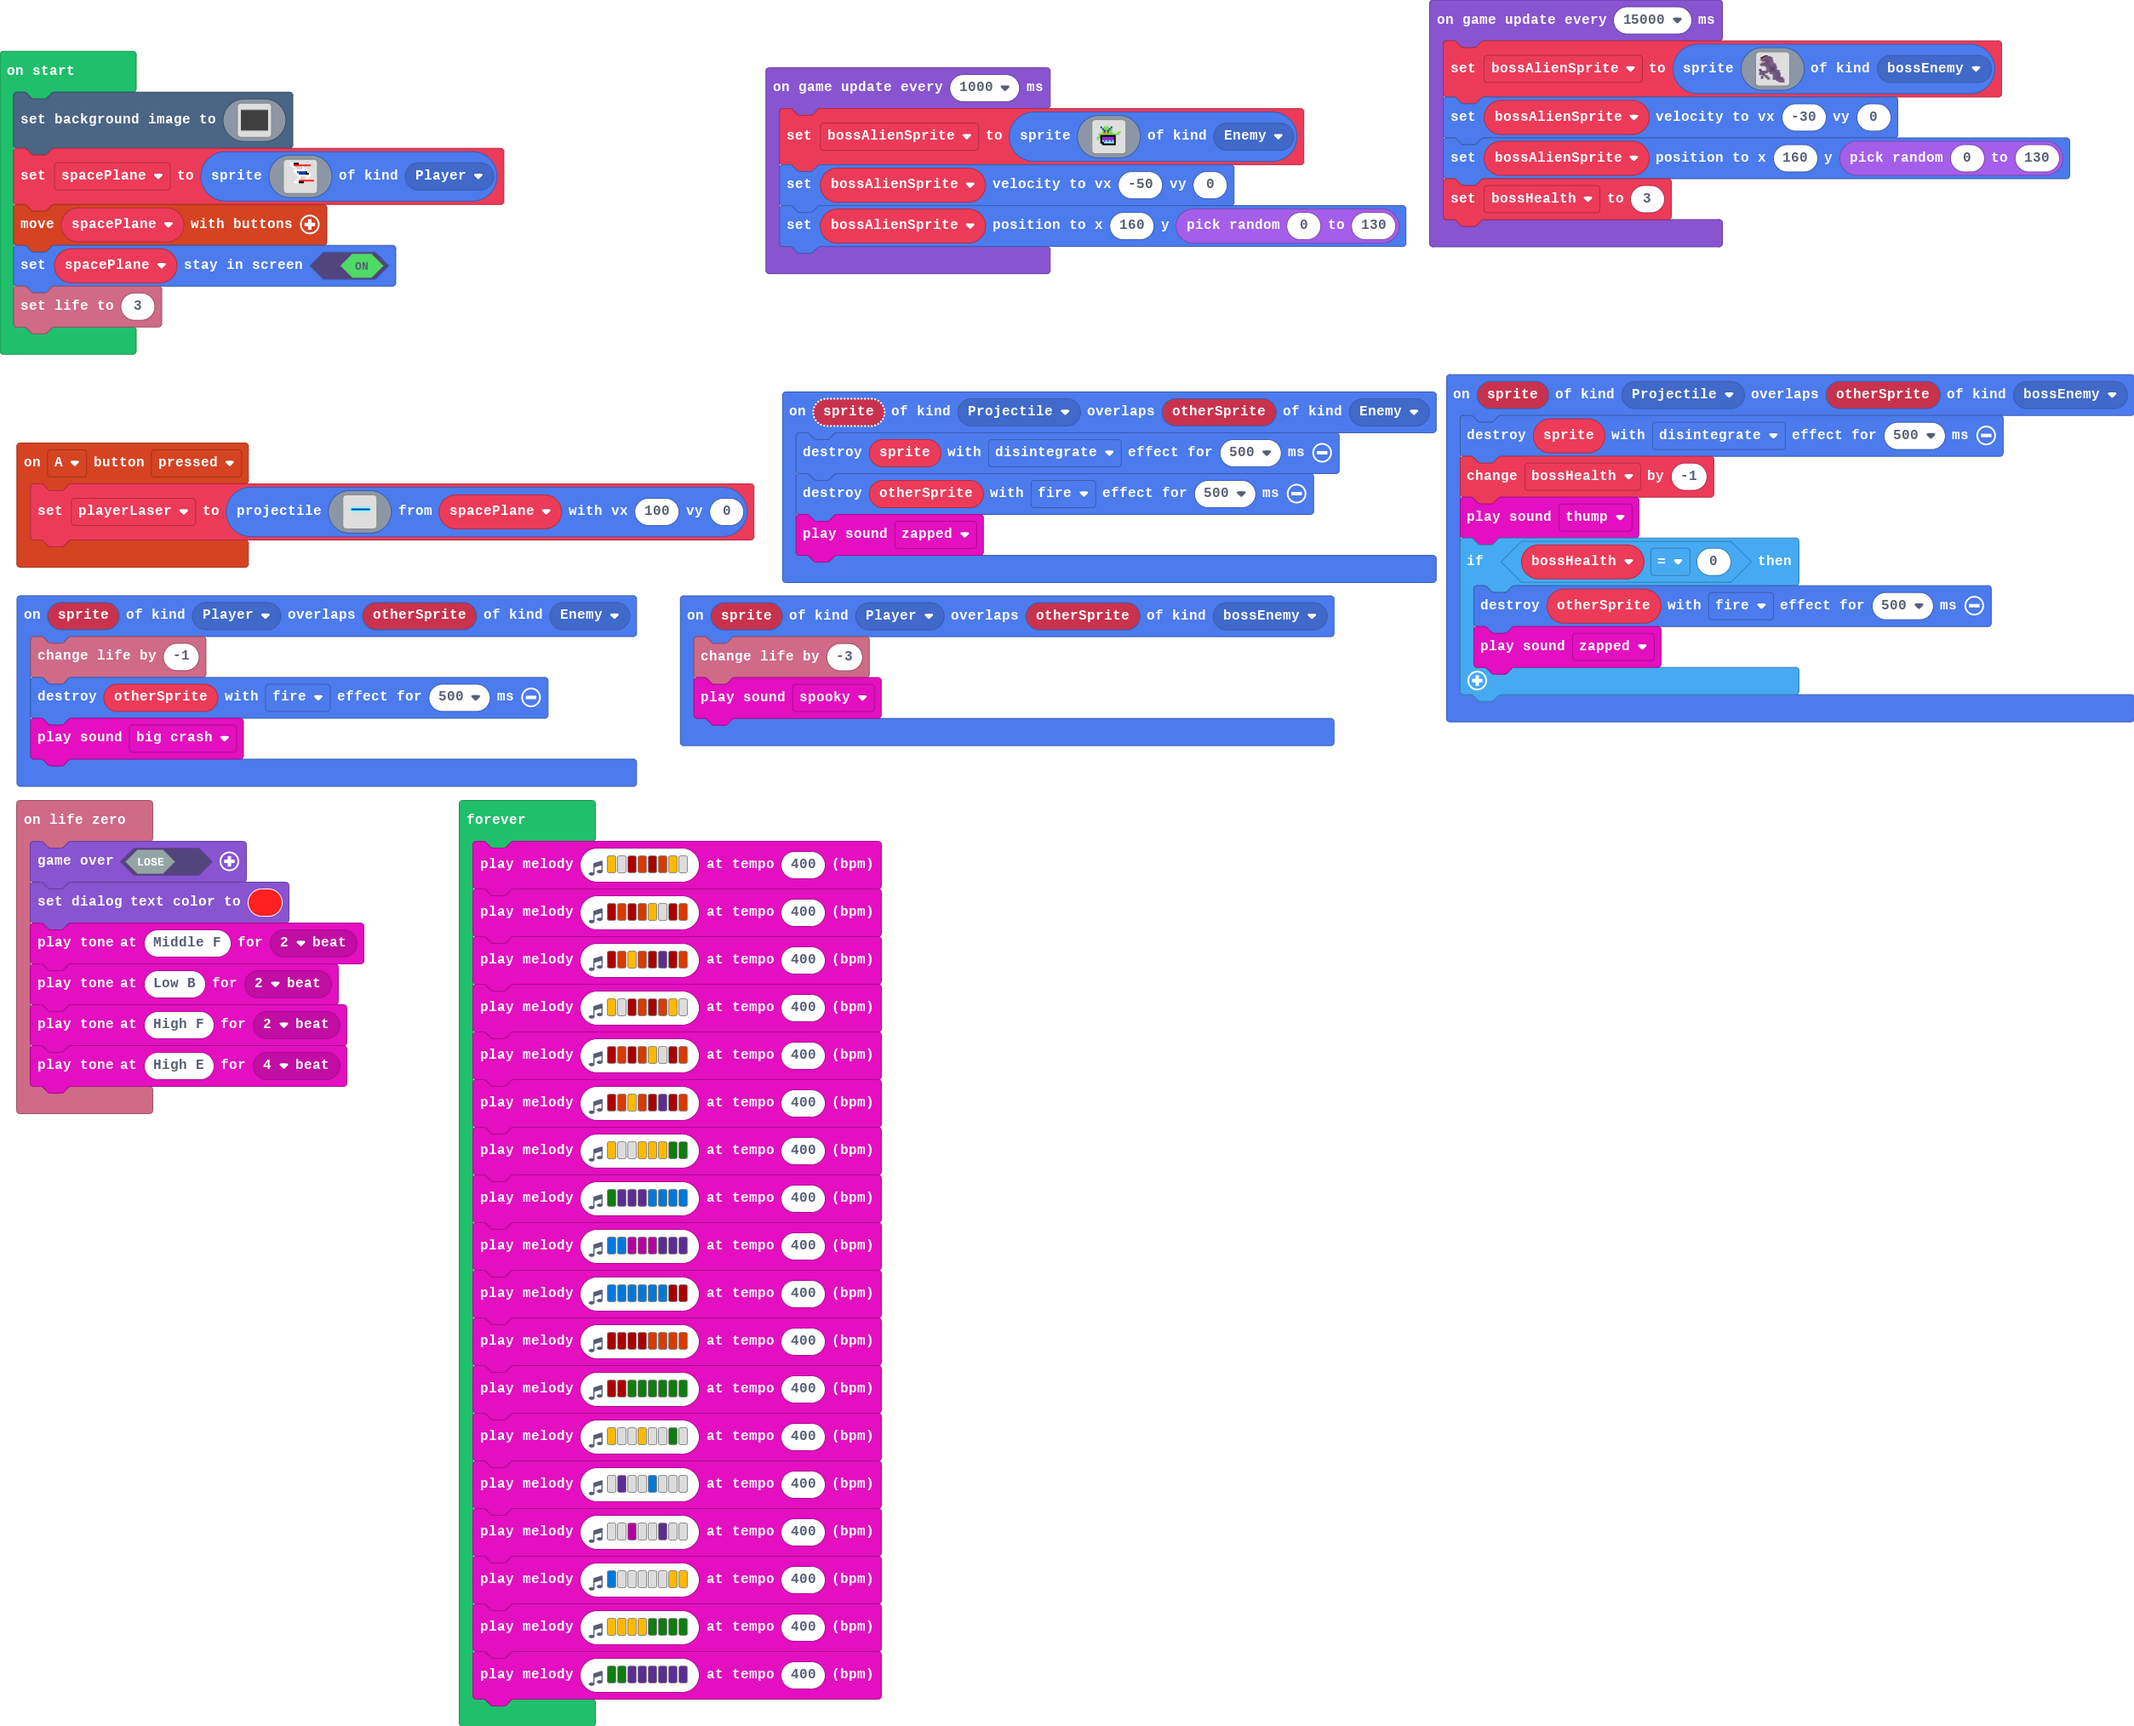
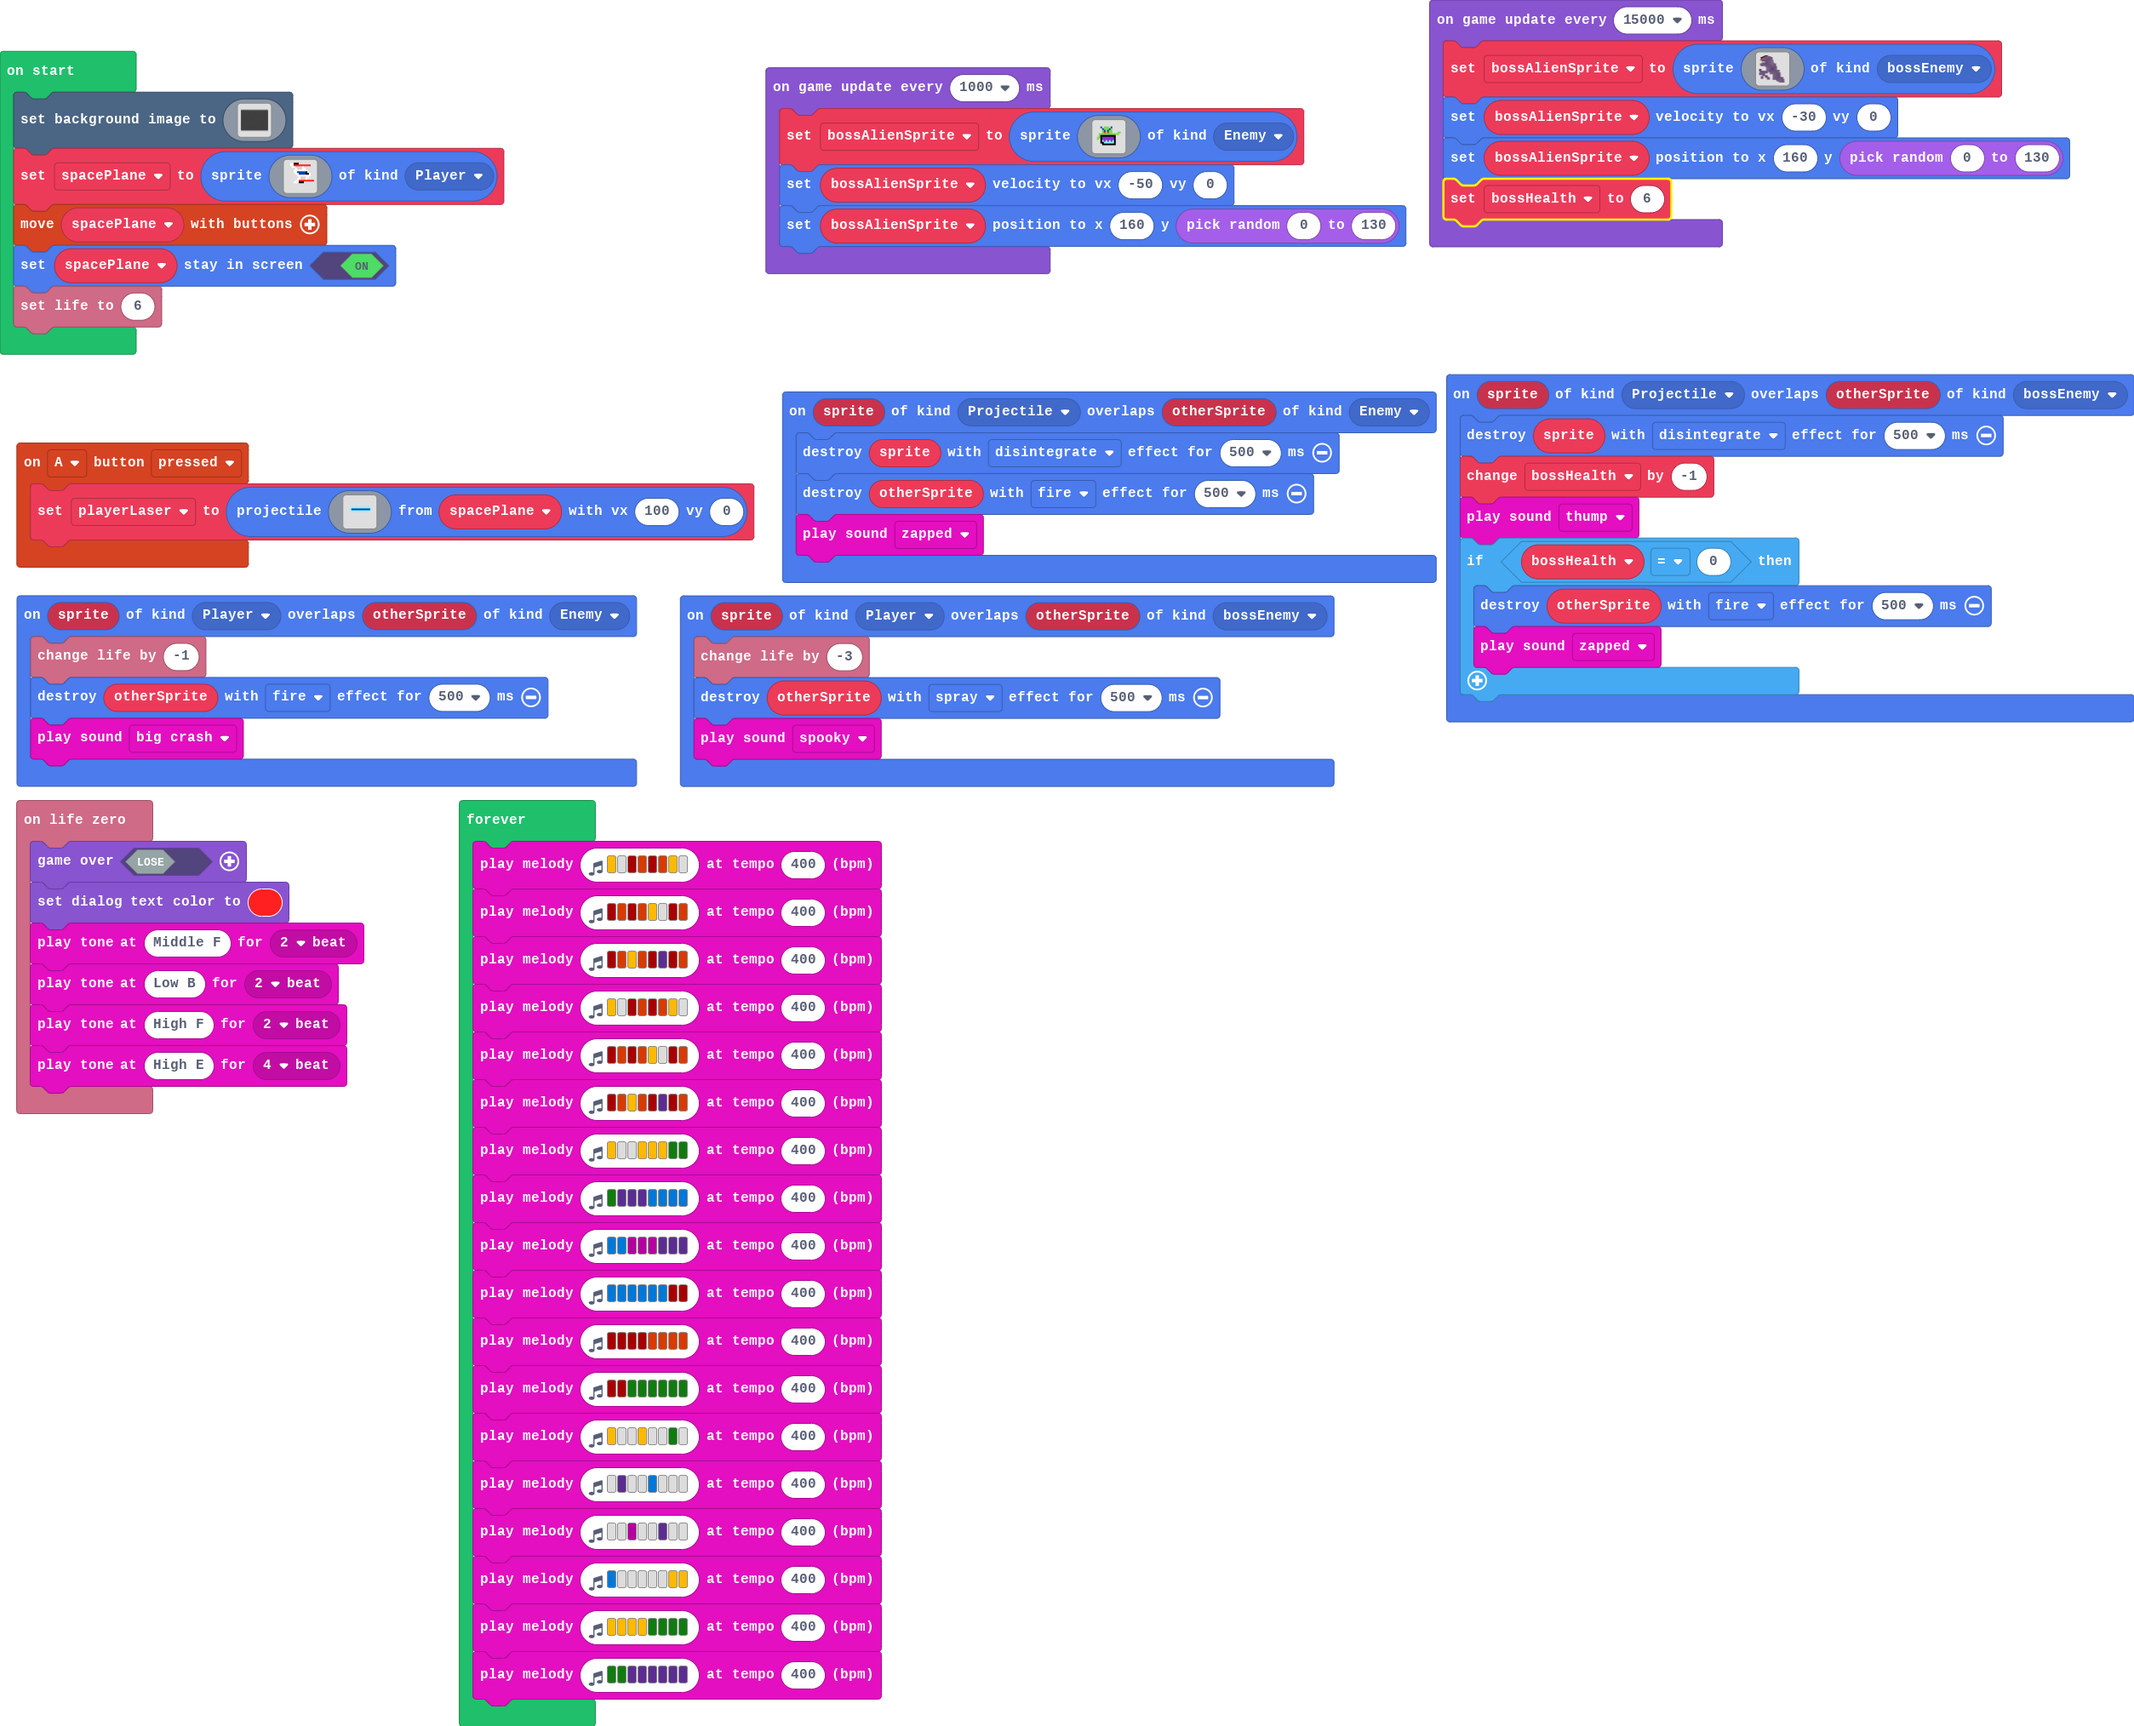
Update main.blocks, main.ts

Changed region(s): [[0.3111, 0.3728, 0.6223, 0.466]]

diff --git a/main.ts b/main.ts
@@ -3,6 +3,7 @@ namespace SpriteKind {
 }
 sprites.onOverlap(SpriteKind.Player, SpriteKind.bossEnemy, function (sprite, otherSprite) {
     info.changeLifeBy(-3)
+    otherSprite.destroy(effects.spray, 500)
     music.spooky.play()
 })
 controller.A.onEvent(ControllerButtonEvent.Pressed, function () {
@@ -198,7 +199,7 @@ spacePlane = sprites.create(img`
     `, SpriteKind.Player)
 controller.moveSprite(spacePlane)
 spacePlane.setStayInScreen(true)
-info.setLife(3)
+info.setLife(6)
 game.onUpdateInterval(15000, function () {
     bossAlienSprite = sprites.create(img`
         ......ffff....................
@@ -234,7 +235,7 @@ game.onUpdateInterval(15000, function () {
         `, SpriteKind.bossEnemy)
     bossAlienSprite.setVelocity(-30, 0)
     bossAlienSprite.setPosition(160, randint(0, 130))
-    bossHealth = 3
+    bossHealth = 6
 })
 game.onUpdateInterval(1000, function () {
     bossAlienSprite = sprites.create(img`
